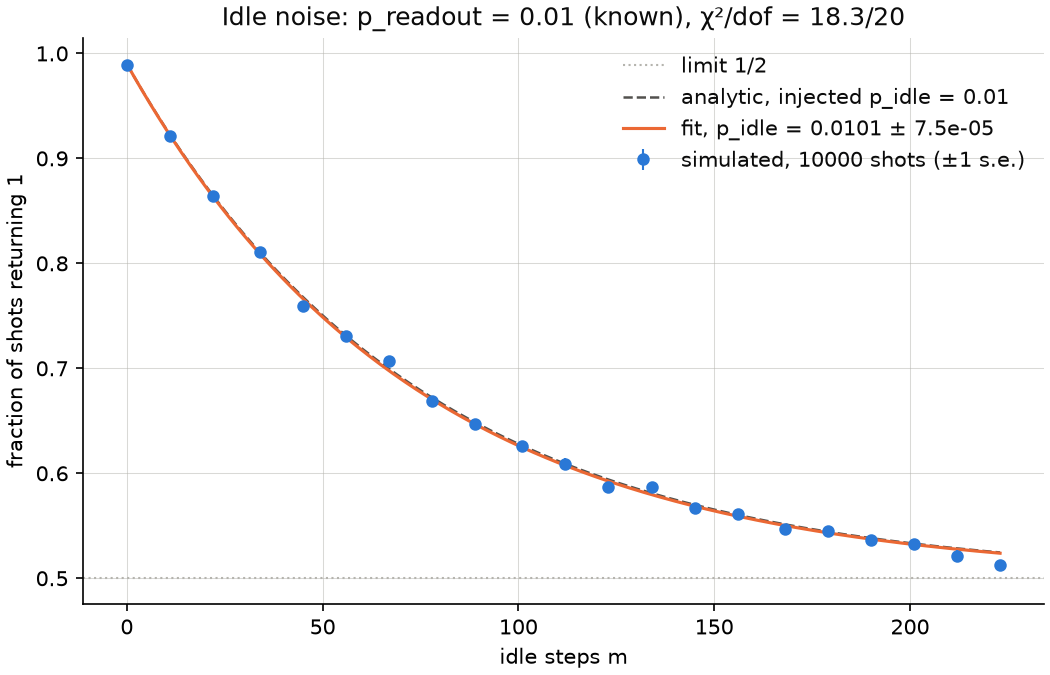
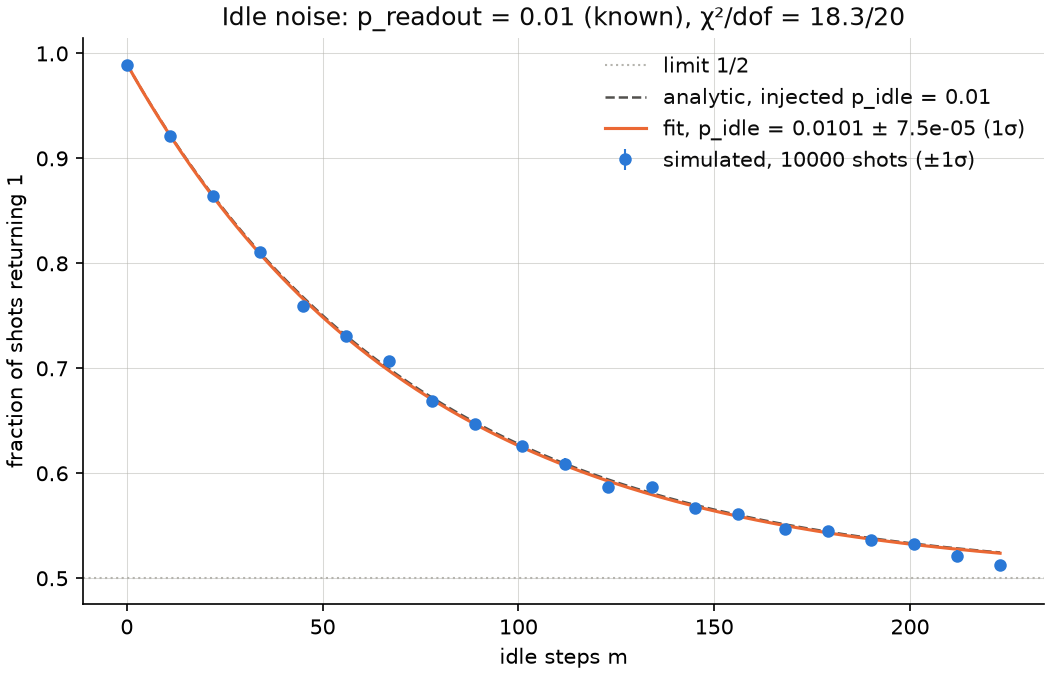
fix: label the idle-figure errors as σ
Before, the legend labels in the idle-noise figure used "s.e.", which was hard to read. The labels now give "±1σ" for the data and "(1σ)" for the fit. The figures in experiments/figures/ are regenerated.

Changed region(s): [[0.579, 0.0622, 0.9752, 0.2489]]

diff --git a/experiments/idle_noise.py b/experiments/idle_noise.py
@@ -49,7 +49,7 @@ def plot(
         idle.analytic_p(m_curve, fit.p_idle, p_readout),
         color=FIT_COLOR,
         linewidth=1.5,
-        label=f"fit, p_idle = {fit.p_idle:.4g} ± {fit.stderr:.2g}",
+        label=f"fit, p_idle = {fit.p_idle:.4g} ± {fit.stderr:.2g} (1σ)",
     )
     ax.errorbar(
         data.m,
@@ -59,7 +59,7 @@ def plot(
         markersize=5,
         color=DATA_COLOR,
         elinewidth=1,
-        label=f"simulated, {data.shots[0]} shots (±1 s.e.)",
+        label=f"simulated, {data.shots[0]} shots (±1σ)",
     )
     ax.set_xlabel("idle steps m")
     ax.set_ylabel("fraction of shots returning 1")
